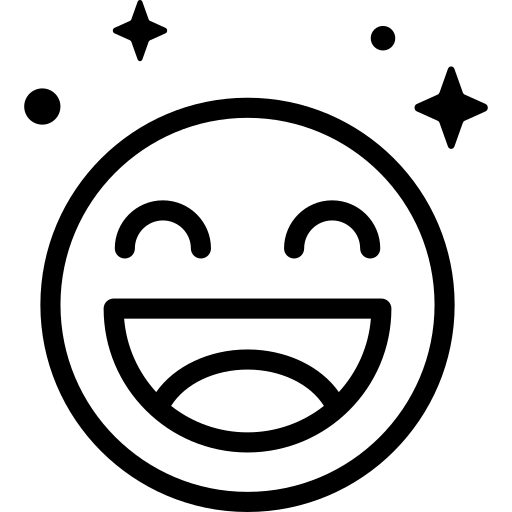
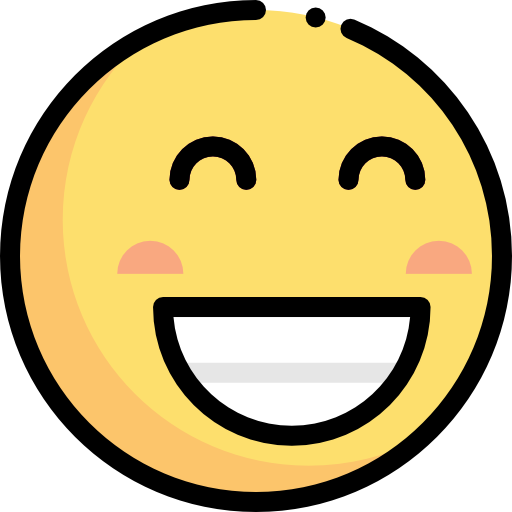
Edit tampilan recommendation

diff --git a/templates/activity-recomendation.html b/templates/activity-recomendation.html
@@ -93,17 +93,74 @@
             <div class="box">
                <div class="option_container">
                   <div class="options">
-                     <button type="submit" class="option" onclick="find('focused')">
+                     <button type="submit" class="option" onclick="find('Chill')">
                         Get Activities
                      </button>
                   </div>
                </div>
                <div class="img-box">
-                  <img src="../static/img/angry.png" alt="">
+                  <img src="../static/img/chill.png" alt="">
                </div>
                <div class="detail-box">
                   <h5>
-                     Blessed
+                     Chill
+                  </h5>
+               </div>
+            </div>
+         </div>
+         <div class="col-sm-6 col-md-3 col-lg-3">
+            <div class="box">
+               <div class="option_container">
+                  <div class="options">
+                     <button type="submit" class="option" onclick="find('confused')">
+                        Get Activities
+                     </button>
+                  </div>
+               </div>
+               <div class="img-box">
+                  <img src="../static/img/confused.png" alt="">
+               </div>
+               <div class="detail-box">
+                  <h5>
+                     Confused
+                  </h5>
+               </div>
+            </div>
+         </div>
+         <div class="col-sm-6 col-md-3 col-lg-3">
+            <div class="box">
+               <div class="option_container">
+                  <div class="options">
+                     <button type="submit" class="option" onclick="find('Cool')">
+                        Get Activities
+                     </button>
+                  </div>
+               </div>
+               <div class="img-box">
+                  <img src="../static/img/cool.png" alt="">
+               </div>
+               <div class="detail-box">
+                  <h5>
+                     Cool
+                  </h5>
+               </div>
+            </div>
+         </div>
+         <div class="col-sm-6 col-md-3 col-lg-3">
+            <div class="box">
+               <div class="option_container">
+                  <div class="options">
+                     <button type="submit" class="option" onclick="find('excited')">
+                        Get Activities
+                     </button>
+                  </div>
+               </div>
+               <div class="img-box">
+                  <img src="../static/img/exicited.png" alt="">
+               </div>
+               <div class="detail-box">
+                  <h5>
+                     Excited
                   </h5>
                </div>
             </div>
@@ -118,11 +175,11 @@
                   </div>
                </div>
                <div class="img-box">
-                  <img src="../static/img/angry.png" alt="">
+                  <img src="../static/img/focused.png" alt="">
                </div>
                <div class="detail-box">
                   <h5>
-                     Blessed
+                     Focused
                   </h5>
                </div>
             </div>
@@ -131,17 +188,17 @@
             <div class="box">
                <div class="option_container">
                   <div class="options">
-                     <button type="submit" class="option" onclick="find('focused')">
+                     <button type="submit" class="option" onclick="find('good')">
                         Get Activities
                      </button>
                   </div>
                </div>
                <div class="img-box">
-                  <img src="../static/img/angry.png" alt="">
+                  <img src="../static/img/good.png" alt="">
                </div>
                <div class="detail-box">
                   <h5>
-                     Blessed
+                     Good
                   </h5>
                </div>
             </div>
@@ -150,17 +207,17 @@
             <div class="box">
                <div class="option_container">
                   <div class="options">
-                     <button type="submit" class="option" onclick="find('focused')">
+                     <button type="submit" class="option" onclick="find('happiest day')">
                         Get Activities
                      </button>
                   </div>
                </div>
                <div class="img-box">
-                  <img src="../static/img/angry.png" alt="">
+                  <img src="../static/img/happiest.png" alt="">
                </div>
                <div class="detail-box">
                   <h5>
-                     Blessed
+                     Happiest Day
                   </h5>
                </div>
             </div>
@@ -169,17 +226,17 @@
             <div class="box">
                <div class="option_container">
                   <div class="options">
-                     <button type="submit" class="option" onclick="find('focused')">
+                     <button type="submit" class="option" onclick="find('hungry')">
                         Get Activities
                      </button>
                   </div>
                </div>
                <div class="img-box">
-                  <img src="../static/img/angry.png" alt="">
+                  <img src="../static/img/hungry.png" alt="">
                </div>
                <div class="detail-box">
                   <h5>
-                     Blessed
+                     Hungry
                   </h5>
                </div>
             </div>
@@ -188,17 +245,17 @@
             <div class="box">
                <div class="option_container">
                   <div class="options">
-                     <button type="submit" class="option" onclick="find('focused')">
+                     <button type="submit" class="option" onclick="find('meh')">
                         Get Activities
                      </button>
                   </div>
                </div>
                <div class="img-box">
-                  <img src="../static/img/angry.png" alt="">
+                  <img src="../static/img/meh.png" alt="">
                </div>
                <div class="detail-box">
                   <h5>
-                     Blessed
+                     Meh
                   </h5>
                </div>
             </div>
@@ -207,17 +264,17 @@
             <div class="box">
                <div class="option_container">
                   <div class="options">
-                     <button type="submit" class="option" onclick="find('focused')">
+                     <button type="submit" class="option" onclick="find('over the moon')">
                         Get Activities
                      </button>
                   </div>
                </div>
                <div class="img-box">
-                  <img src="../static/img/angry.png" alt="">
+                  <img src="../static/img/over the moon.png" alt="">
                </div>
                <div class="detail-box">
                   <h5>
-                     Blessed
+                     Over the Moon
                   </h5>
                </div>
             </div>
@@ -226,17 +283,150 @@
             <div class="box">
                <div class="option_container">
                   <div class="options">
-                     <button type="submit" class="option" onclick="find('focused')">
+                     <button type="submit" class="option" onclick="find('sad af')">
                         Get Activities
                      </button>
                   </div>
                </div>
                <div class="img-box">
-                  <img src="../static/img/angry.png" alt="">
+                  <img src="../static/img/sad.png" alt="">
                </div>
                <div class="detail-box">
                   <h5>
-                     Blessed
+                     Sad
+                  </h5>
+               </div>
+            </div>
+         </div>
+         <div class="col-sm-6 col-md-3 col-lg-3">
+            <div class="box">
+               <div class="option_container">
+                  <div class="options">
+                     <button type="submit" class="option" onclick="find('scared')">
+                        Get Activities
+                     </button>
+                  </div>
+               </div>
+               <div class="img-box">
+                  <img src="../static/img/scared.png" alt="">
+               </div>
+               <div class="detail-box">
+                  <h5>
+                     Scared
+                  </h5>
+               </div>
+            </div>
+         </div>
+         <div class="col-sm-6 col-md-3 col-lg-3">
+            <div class="box">
+               <div class="option_container">
+                  <div class="options">
+                     <button type="submit" class="option" onclick="find('sick')">
+                        Get Activities
+                     </button>
+                  </div>
+               </div>
+               <div class="img-box">
+                  <img src="../static/img/sick.png" alt="">
+               </div>
+               <div class="detail-box">
+                  <h5>
+                     Sick
+                  </h5>
+               </div>
+            </div>
+         </div>
+         <div class="col-sm-6 col-md-3 col-lg-3">
+            <div class="box">
+               <div class="option_container">
+                  <div class="options">
+                     <button type="submit" class="option" onclick="find('triggered')">
+                        Get Activities
+                     </button>
+                  </div>
+               </div>
+               <div class="img-box">
+                  <img src="../static/img/trigger.png" alt="">
+               </div>
+               <div class="detail-box">
+                  <h5>
+                     Triggered
+                  </h5>
+               </div>
+            </div>
+         </div>
+         <div class="col-sm-6 col-md-3 col-lg-3">
+            <div class="box">
+               <div class="option_container">
+                  <div class="options">
+                     <button type="submit" class="option" onclick="find('weak')">
+                        Get Activities
+                     </button>
+                  </div>
+               </div>
+               <div class="img-box">
+                  <img src="../static/img/weak.png" alt="">
+               </div>
+               <div class="detail-box">
+                  <h5>
+                     Weak
+                  </h5>
+               </div>
+            </div>
+         </div>
+         <div class="col-sm-6 col-md-3 col-lg-3">
+            <div class="box">
+               <div class="option_container">
+                  <div class="options">
+                     <button type="submit" class="option" onclick="find('wondering')">
+                        Get Activities
+                     </button>
+                  </div>
+               </div>
+               <div class="img-box">
+                  <img src="../static/img/wondering.png" alt="">
+               </div>
+               <div class="detail-box">
+                  <h5>
+                     Wondering
+                  </h5>
+               </div>
+            </div>
+         </div>
+         <div class="col-sm-6 col-md-3 col-lg-3">
+            <div class="box">
+               <div class="option_container">
+                  <div class="options">
+                     <button type="submit" class="option" onclick="find('worried')">
+                        Get Activities
+                     </button>
+                  </div>
+               </div>
+               <div class="img-box">
+                  <img src="../static/img/worried.png" alt="">
+               </div>
+               <div class="detail-box">
+                  <h5>
+                     Worried
+                  </h5>
+               </div>
+            </div>
+         </div>
+         <div class="col-sm-6 col-md-3 col-lg-3">
+            <div class="box">
+               <div class="option_container">
+                  <div class="options">
+                     <button type="submit" class="option" onclick="find('yolo')">
+                        Get Activities
+                     </button>
+                  </div>
+               </div>
+               <div class="img-box">
+                  <img src="../static/img/yolo.png" alt="">
+               </div>
+               <div class="detail-box">
+                  <h5>
+                     Yolo
                   </h5>
                </div>
             </div>
